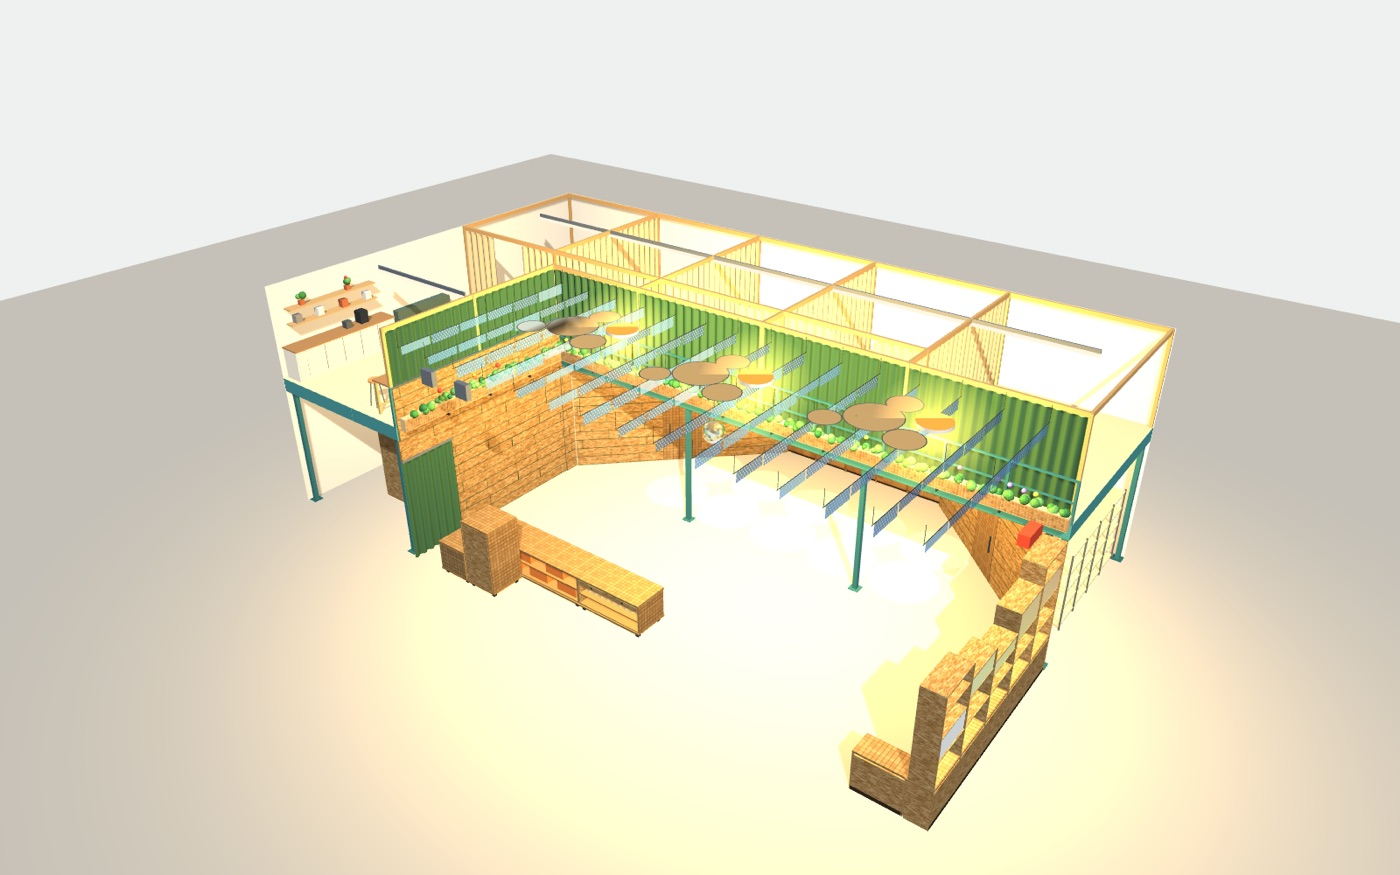
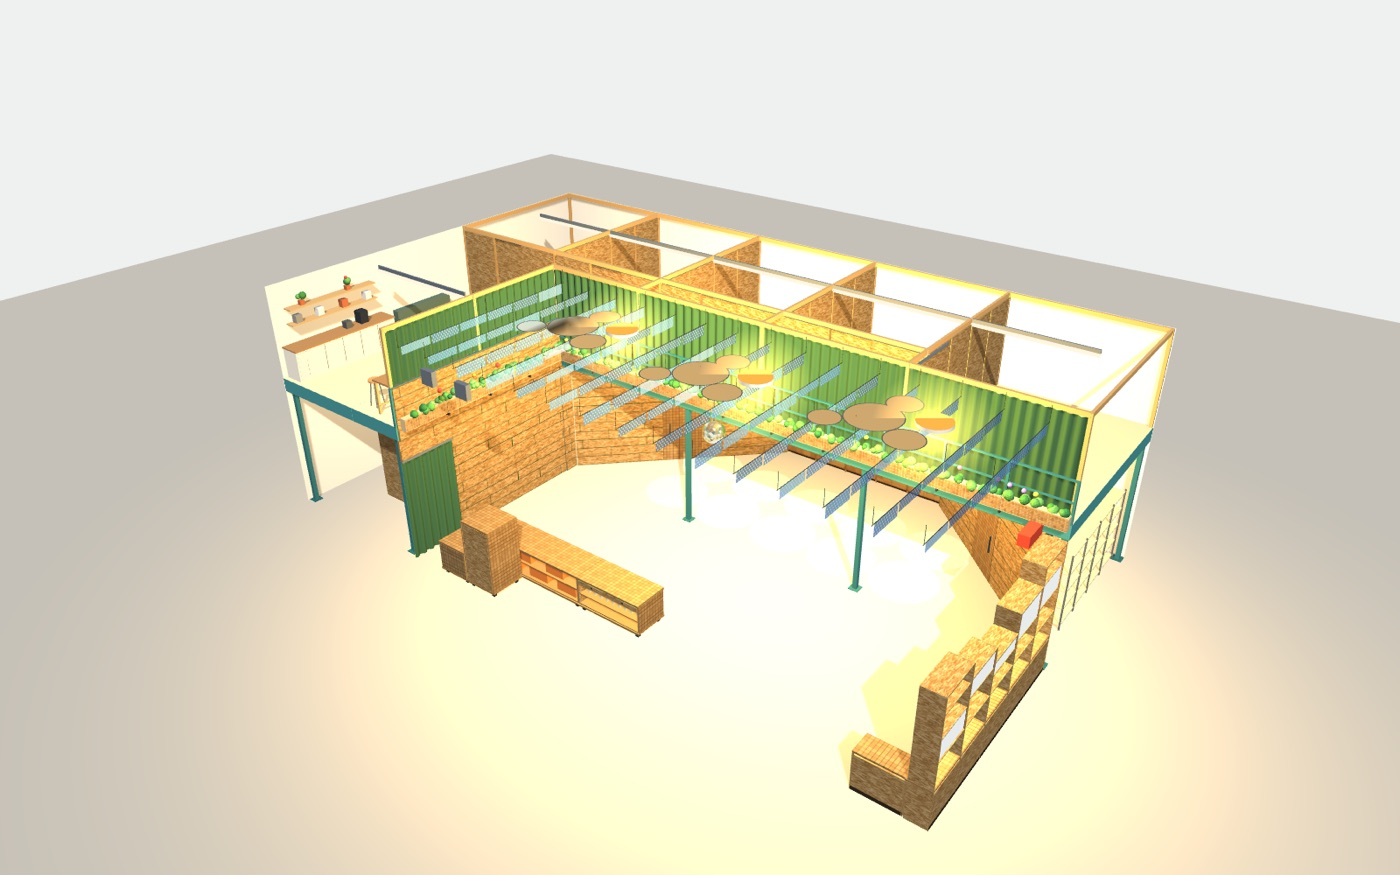
Update the public model 15 Oct 2026

diff --git a/index.html b/index.html
@@ -154,6 +154,11 @@ canvas.overcart{cursor:move} canvas.grabbing{cursor:grabbing}
     <button type="button" data-bar="island">Island</button>
     <button type="button" data-bar="two">Two</button>
   </div>
+  <div class="seg" role="group" aria-label="The studios' walls upstairs" id="studioseg">
+    <span class="gl">Studios</span>
+    <button type="button" data-st="panels" class="on">OSB panels</button>
+    <button type="button" data-st="curtains">Curtains</button>
+  </div>
   <div class="seg" role="group" aria-label="The pivot doors of the corner closets" id="doorseg">
     <span class="gl">Doors</span>
     <button type="button" data-dl="oak" class="on">Oak squares</button>
@@ -208,7 +213,7 @@ canvas.overcart{cursor:move} canvas.grabbing{cursor:grabbing}
   <label><input type="checkbox" id="sh-fl"> Fire ladder rolled down</label>
   <label><input type="checkbox" id="sh-see"> See-through deck</label>
   <label><input type="checkbox" id="sh-box" checked> Wooden box round the stair</label>
-  <label><input type="checkbox" id="sh-cd"> Closet doors open</label>
+  <label><input type="checkbox" id="sh-cd"> Doors open (closets and studios)</label>
   <label><input type="checkbox" id="sh-plt" checked> Planters at the deck edge</label>
   <label><input type="checkbox" id="sh-rk" checked> Racks in the corner closets</label>
   <label><input type="checkbox" id="sh-ppl"> People (1.80 m)</label>
@@ -749,13 +754,13 @@ const POTS = [ "#b5653f", "#e6e2da", "#8e8a84", "#c98b5e" ], LEAVES = [ "#4f8a45
 
 const G = {};
 
-[ "shell", "struct", "ground", "up", "curtUp", "frame", "kitchen", "sky", "ball", "fwA", "fwB", "proj", "ladderUp", "ladderDown", "under", "carts", "people", "dims", "stairbox", "racks", "plt" ].forEach(k => {
+[ "shell", "struct", "ground", "up", "curtUp", "curtSand", "panels", "frame", "kitchen", "sky", "ball", "fwA", "fwB", "proj", "ladderUp", "ladderDown", "under", "carts", "people", "dims", "stairbox", "racks", "plt" ].forEach(k => {
     G[k] = new THREE.Group;
 });
 
 const UPG = new THREE.Group;
 
-[ G.up, G.curtUp, G.frame, G.kitchen, G.plt ].forEach(g => UPG.add(g));
+[ G.up, G.curtUp, G.curtSand, G.panels, G.frame, G.kitchen, G.plt ].forEach(g => UPG.add(g));
 
 scene.add(UPG);
 
@@ -1610,7 +1615,62 @@ label([ 10, DECK_TOP + PH - .3, SD ], "Wooden posts and beams", "all round the d
 
 const CBm = DECK_TOP + .015, CT = DECK_TOP + PH - .12 - .02, CDROP = CT - CBm;
 
-CURTAINS.forEach(([x0, z0, x1, z1, k, gaps, bottom]) => curtain(G.curtUp, x0, z0, x1, z1, bottom || CBm, CT, k === "g" ? M.green[1] : M.sand, gaps));
+CURTAINS.forEach(([x0, z0, x1, z1, k, gaps, bottom]) => curtain(k === "g" ? G.curtUp : G.curtSand, x0, z0, x1, z1, bottom || CBm, CT, k === "g" ? M.green[1] : M.sand, gaps));
+
+let PART = Q.get("studios") === "curtains" ? "curtains" : "panels";
+
+const SLIDERS = [];
+
+{
+    const g = G.panels, T = .1, y0 = DECK_TOP + .015, y1 = DECK_TOP + PH - .12 - .015, strip = mat("#b78d56", {
+        roughness: .65
+    }), P = .045;
+    const run = (x0, z0, x1, z1) => {
+        const alongX = Math.abs(z1 - z0) < 1e-6, a = alongX ? x0 : z0, b = alongX ? x1 : z1, L = b - a, n = Math.max(1, Math.round(L / 1.22)), w = L / n;
+        for (let i = 0; i < n; i++) {
+            const p = a + i * w, q = p + w - .006;
+            if (alongX) B(g, p, y0, z0 - T / 2, q, y1, z0 + T / 2, osbFor(w, y1 - y0)); else B(g, x0 - T / 2, y0, p, x0 + T / 2, y1, q, osbFor(w, y1 - y0));
+            if (i) [ -1, 1 ].forEach(sd => {
+                const f = (alongX ? z0 : x0) + sd * T / 2, f2 = f + sd * .012;
+                if (alongX) B(g, p - .025, y0, f, p + .025, y1, f2, strip); else B(g, f, y0, p - .025, f2, y1, p + .025, strip);
+            });
+        }
+    };
+    [ 4, 8, 12, 16 ].forEach(x => run(x, .06 + P, x, SD - P));
+    const gaps = [ [ 1.4, 2.6 ], [ 5.4, 6.6 ], [ 9.4, 10.6 ], [ 13.4, 14.6 ] ];
+    minus([ .06 + P, 16 - P ], gaps).forEach(([a, b]) => run(a, SD, b, SD));
+    gaps.forEach(([a, b]) => {
+        const d = new THREE.Group, zd = SD - T / 2 - .035;
+        d.position.set((a + b) / 2, 0, zd);
+        g.add(d);
+        B(d, -(b - a) / 2 - .05, y0 + .01, -.02, (b - a) / 2 + .05, y1 - .06, .02, osbFor(1.3, y1 - y0));
+        B(d, (b - a) / 2 - .12, y0 + .95, -.035, (b - a) / 2 - .09, y0 + 1.35, .035, M.castor);
+        B(g, a - 1.4, y1 - .05, zd - .025, b + .1, y1, zd + .025, M.track);
+        SLIDERS.push({
+            d: d,
+            at: (a + b) / 2,
+            by: -(b - a + .05),
+            ax: "x"
+        });
+    });
+    {
+        const z0 = SD + P, z1 = BACK - .06 - P, d = new THREE.Group, xd = 16 + T / 2 + .035;
+        d.position.set(xd, 0, (z0 + z1) / 2);
+        g.add(d);
+        B(d, -.02, y0 + .01, -(z1 - z0) / 2 - .04, .02, y1 - .06, (z1 - z0) / 2 + .04, osbFor(1, y1 - y0));
+        B(g, xd - .025, y1 - .05, z0 - 1, xd + .025, y1, z1 + .05, M.track);
+        SLIDERS.push({
+            d: d,
+            at: (z0 + z1) / 2,
+            by: -(z1 - z0 + .05),
+            ax: "z"
+        });
+    }
+    label([ 10, DECK_TOP + 1.6, SD - .3 ], "OSB panels", "movable: 9 mm, wool, 9 mm; a sliding door per studio", {
+        lv: "up",
+        cls: "sm"
+    });
+}
 
 {
     const g = G.kitchen, y = DECK_TOP;
@@ -2557,6 +2617,13 @@ function applyView() {
     FWVIS.B = G.fwB.visible && FW === "B";
     FWVIS.P = G.proj.visible && v("sh-pj");
     G.curtUp.visible = v("sh-cur");
+    G.curtSand.visible = v("sh-cur") && PART === "curtains";
+    G.panels.visible = PART === "panels";
+    SLIDERS.forEach(q => {
+        const o = v("sh-cd") ? q.by : 0;
+        if (q.ax === "x") q.d.position.x = q.at + o; else q.d.position.z = q.at + o;
+    });
+    document.querySelectorAll("#studioseg button").forEach(b => b.classList.toggle("on", b.dataset.st === PART));
     G.ladderUp.visible = G.ladderUp.visible && !v("sh-fl");
     G.ladderDown.visible = G.ladderDown.visible && v("sh-fl");
     G.dims.visible = v("sh-dm");
@@ -2612,6 +2679,11 @@ click("#doorseg", b => {
     DOORLOOK = b.dataset.dl;
     applyView();
     updateMirrors(true);
+});
+
+click("#studioseg", b => {
+    PART = b.dataset.st;
+    applyView();
 });
 
 click("#lall", b => allLights(b.dataset.all));
